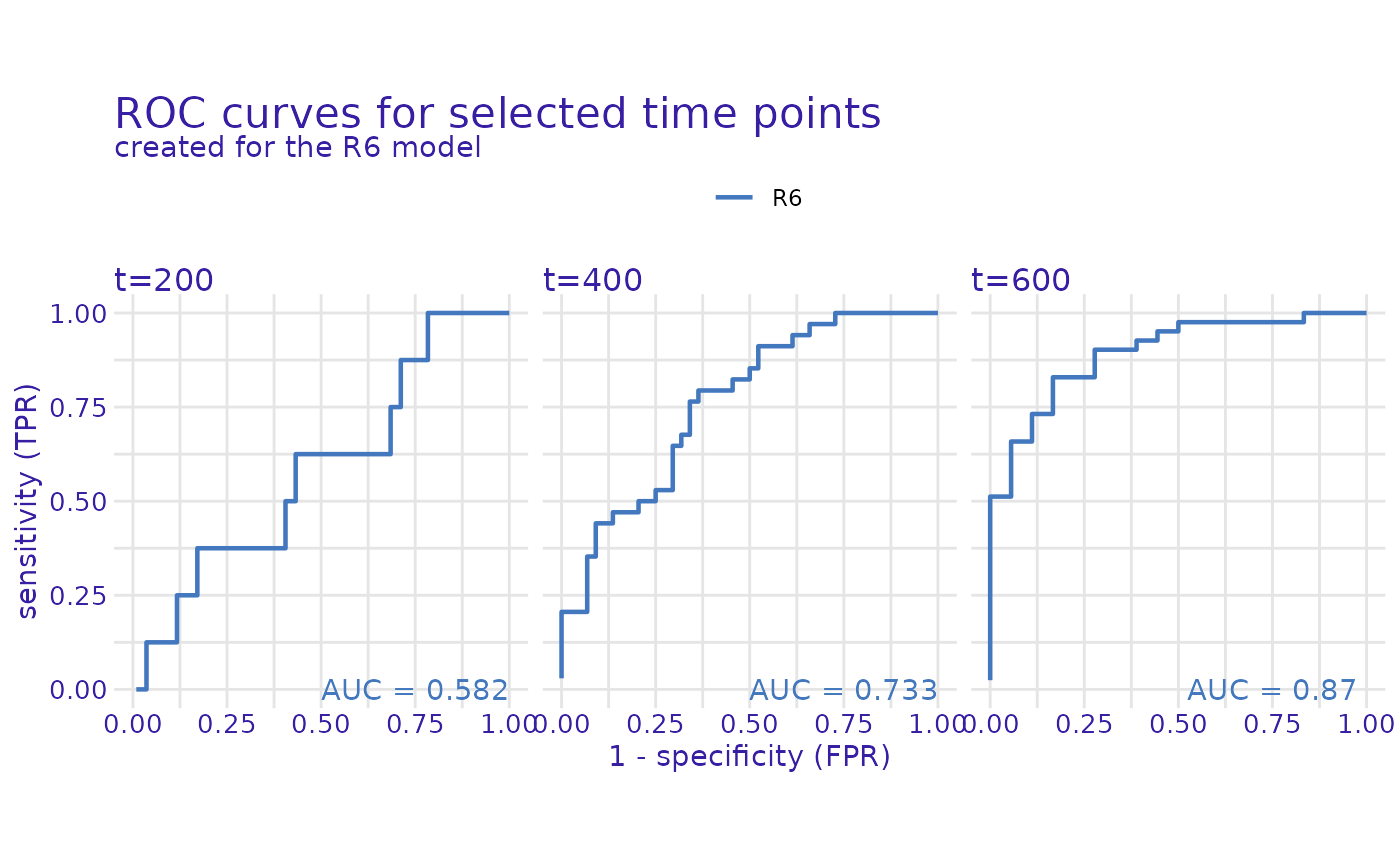
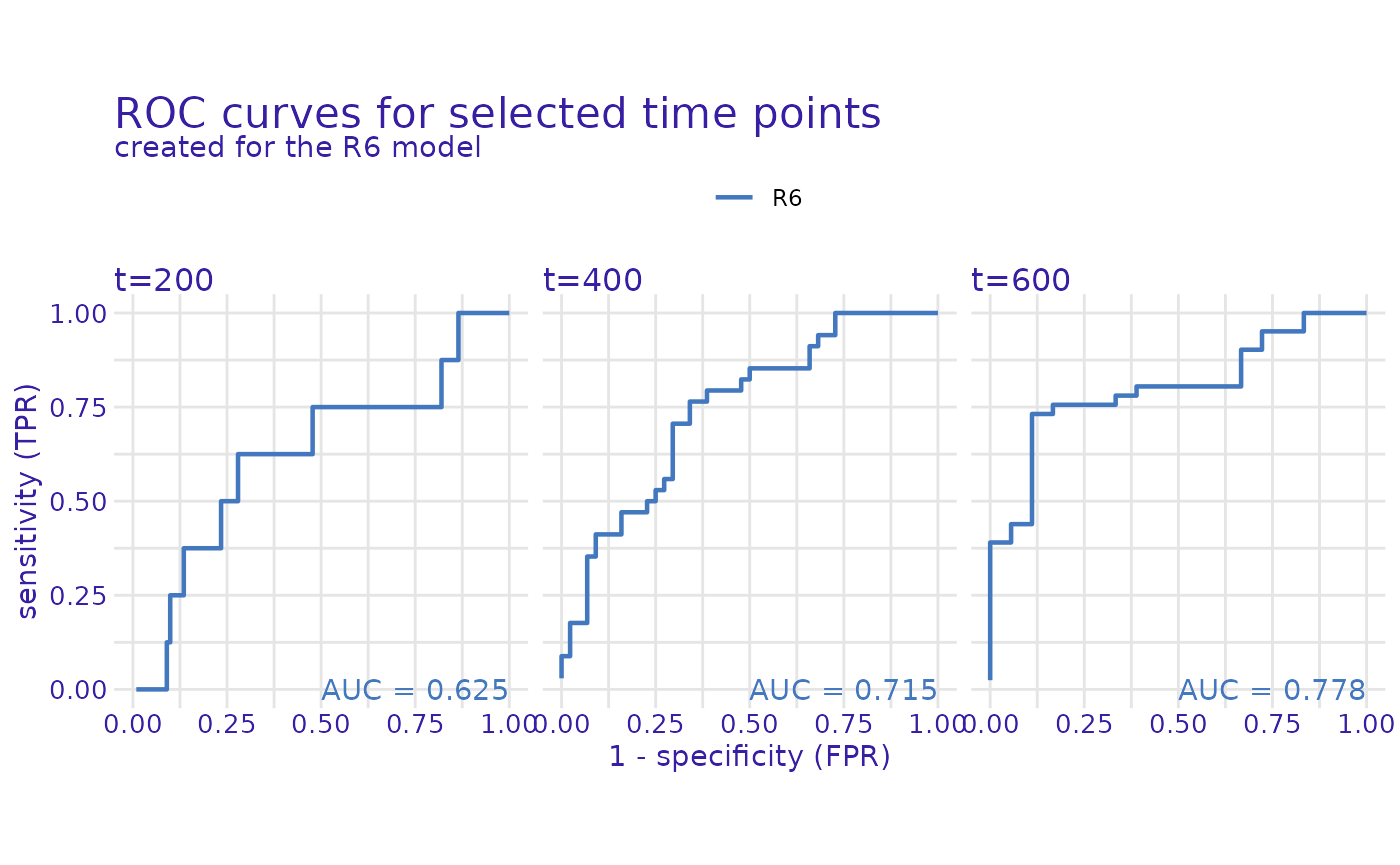
Deploying to gh-pages from @ orspanish/DeepSuRv@f4d12d9dfce1404e2e0daece48dc1e8613ecccd2 🚀

diff --git a/reference/negative_log_likelihood.html b/reference/negative_log_likelihood.html
@@ -50,16 +50,16 @@
     <h2 id="arguments">Arguments<a class="anchor" aria-label="anchor" href="#arguments"></a></h2>
 
 
-<dl><dt id="arg-e">E<a class="anchor" aria-label="anchor" href="#arg-e"></a></dt>
-<dd><p>A numeric vector of event indicators (1 = event occurred, 0 = censored).</p></dd>
-
-
-<dt id="arg-self">self<a class="anchor" aria-label="anchor" href="#arg-self"></a></dt>
+<dl><dt id="arg-model">model<a class="anchor" aria-label="anchor" href="#arg-model"></a></dt>
 <dd><p>A model-like object containing a method that returns the predicted log hazard.</p></dd>
 
 
-<dt id="arg-deterministic">deterministic<a class="anchor" aria-label="anchor" href="#arg-deterministic"></a></dt>
-<dd><p>Logical; if TRUE, calculates deterministic network outputs.</p></dd>
+<dt id="arg-x">X<a class="anchor" aria-label="anchor" href="#arg-x"></a></dt>
+<dd><p>A numeric matrix or data frame of input features, with one row per subject and one column per feature</p></dd>
+
+
+<dt id="arg-e">E<a class="anchor" aria-label="anchor" href="#arg-e"></a></dt>
+<dd><p>A numeric vector of event indicators (1 = event occurred, 0 = censored).</p></dd>
 
 </dl></div>
     <div class="section level2">
@@ -69,10 +69,28 @@
 
     <div class="section level2">
     <h2 id="ref-examples">Examples<a class="anchor" aria-label="anchor" href="#ref-examples"></a></h2>
-    <div class="sourceCode"><pre class="sourceCode r"><code><span class="r-in"><span><span class="va">fake_self</span> <span class="op">&lt;-</span> <span class="fu"><a href="https://rdrr.io/r/base/list.html" class="external-link">list</a></span><span class="op">(</span>risk <span class="op">=</span> <span class="kw">function</span><span class="op">(</span><span class="va">deterministic</span><span class="op">)</span> <span class="fu"><a href="https://rdrr.io/r/base/c.html" class="external-link">c</a></span><span class="op">(</span><span class="fl">0.1</span>, <span class="fl">0.2</span>, <span class="fl">0.3</span><span class="op">)</span><span class="op">)</span></span></span>
+    <div class="sourceCode"><pre class="sourceCode r"><code><span class="r-in"><span><span class="kw">if</span> <span class="op">(</span><span class="cn">FALSE</span><span class="op">)</span> <span class="op">{</span> <span class="co"># \dontrun{</span></span></span>
+<span class="r-in"><span><span class="co"># Create a fake model object with a risk() method</span></span></span>
+<span class="r-in"><span><span class="va">fake_self</span> <span class="op">&lt;-</span> <span class="fu"><a href="https://rdrr.io/r/base/list.html" class="external-link">list</a></span><span class="op">(</span></span></span>
+<span class="r-in"><span>  risk <span class="op">=</span> <span class="kw">function</span><span class="op">(</span><span class="va">x</span><span class="op">)</span> <span class="op">{</span></span></span>
+<span class="r-in"><span>    <span class="co"># Return a torch tensor of log-risk values,</span></span></span>
+<span class="r-in"><span>    <span class="co"># one per row of the input feature matrix</span></span></span>
+<span class="r-in"><span>    <span class="fu">torch</span><span class="fu">::</span><span class="fu"><a href="https://torch.mlverse.org/docs/reference/torch_tensor.html" class="external-link">torch_tensor</a></span><span class="op">(</span><span class="fu"><a href="https://rdrr.io/r/base/c.html" class="external-link">c</a></span><span class="op">(</span><span class="fl">0.1</span>, <span class="fl">0.2</span>, <span class="fl">0.3</span><span class="op">)</span><span class="op">)</span></span></span>
+<span class="r-in"><span>  <span class="op">}</span></span></span>
+<span class="r-in"><span><span class="op">)</span></span></span>
+<span class="r-in"><span></span></span>
+<span class="r-in"><span><span class="co"># Feature matrix: one row per subject</span></span></span>
+<span class="r-in"><span><span class="va">X</span> <span class="op">&lt;-</span> <span class="fu"><a href="https://rdrr.io/r/base/data.frame.html" class="external-link">data.frame</a></span><span class="op">(</span></span></span>
+<span class="r-in"><span>  age <span class="op">=</span> <span class="fu"><a href="https://rdrr.io/r/base/c.html" class="external-link">c</a></span><span class="op">(</span><span class="fl">60</span>, <span class="fl">55</span>, <span class="fl">70</span><span class="op">)</span>,</span></span>
+<span class="r-in"><span>  biomarker <span class="op">=</span> <span class="fu"><a href="https://rdrr.io/r/base/c.html" class="external-link">c</a></span><span class="op">(</span><span class="fl">1.2</span>, <span class="fl">0.7</span>, <span class="fl">2.1</span><span class="op">)</span></span></span>
+<span class="r-in"><span><span class="op">)</span></span></span>
+<span class="r-in"><span></span></span>
+<span class="r-in"><span><span class="co"># Event indicator (1 = event, 0 = censored)</span></span></span>
 <span class="r-in"><span><span class="va">E</span> <span class="op">&lt;-</span> <span class="fu"><a href="https://rdrr.io/r/base/c.html" class="external-link">c</a></span><span class="op">(</span><span class="fl">1</span>, <span class="fl">0</span>, <span class="fl">1</span><span class="op">)</span></span></span>
-<span class="r-in"><span><span class="fu">negative_log_likelihood</span><span class="op">(</span><span class="va">fake_self</span>, <span class="va">E</span><span class="op">)</span></span></span>
-<span class="r-err co"><span class="r-pr">#&gt;</span> <span class="error">Error in model$risk(torch_tensor(as.matrix(X), dtype = torch_float()))$squeeze:</span> $ operator is invalid for atomic vectors</span>
+<span class="r-in"><span></span></span>
+<span class="r-in"><span><span class="co"># Compute negative partial log-likelihood</span></span></span>
+<span class="r-in"><span><span class="fu">negative_log_likelihood</span><span class="op">(</span><span class="va">fake_self</span>, <span class="va">X</span>, <span class="va">E</span><span class="op">)</span></span></span>
+<span class="r-in"><span><span class="op">}</span> <span class="co"># }</span></span></span>
 </code></pre></div>
     </div>
   </main><aside class="col-md-3"><nav id="toc" aria-label="Table of contents"><h2>On this page</h2>

diff --git a/articles/DeepSuRv_tutorial.html b/articles/DeepSuRv_tutorial.html
@@ -153,11 +153,11 @@ desired.</p>
 <div class="sourceCode" id="cb4"><pre class="downlit sourceCode r">
 <code class="sourceCode R"><span><span class="va">model_whas</span><span class="op">$</span><span class="fu">set_standardization</span><span class="op">(</span><span class="va">x_train</span><span class="op">)</span></span>
 <span><span class="va">model_whas</span><span class="op">$</span><span class="fu">train</span><span class="op">(</span><span class="va">x_train</span>, <span class="va">t_train</span>, <span class="va">e_train</span><span class="op">)</span></span>
-<span><span class="co">#&gt; Epoch: 10 Loss: 3334.747 </span></span>
-<span><span class="co">#&gt; Epoch: 20 Loss: 3320.217 </span></span>
-<span><span class="co">#&gt; Epoch: 30 Loss: 3303.784 </span></span>
-<span><span class="co">#&gt; Epoch: 40 Loss: 3296.047 </span></span>
-<span><span class="co">#&gt; Epoch: 50 Loss: 3277.537</span></span></code></pre></div>
+<span><span class="co">#&gt; Epoch: 10 Loss: 3345.604 </span></span>
+<span><span class="co">#&gt; Epoch: 20 Loss: 3342.146 </span></span>
+<span><span class="co">#&gt; Epoch: 30 Loss: 3321.036 </span></span>
+<span><span class="co">#&gt; Epoch: 40 Loss: 3306.22 </span></span>
+<span><span class="co">#&gt; Epoch: 50 Loss: 3308.43</span></span></code></pre></div>
 <p>During training, the network iteratively updates its weights to
 minimize the Cox loss. Each epoch processes all training samples once,
 and the optimizer adjusts the weights based on the gradient of the
@@ -174,7 +174,7 @@ set.</p>
 <div class="sourceCode" id="cb5"><pre class="downlit sourceCode r">
 <code class="sourceCode R"><span><span class="va">scores</span> <span class="op">&lt;-</span> <span class="va">model_whas</span><span class="op">$</span><span class="fu">predict_risk</span><span class="op">(</span><span class="va">x_test</span><span class="op">)</span></span>
 <span><span class="fu"><a href="https://rdrr.io/r/utils/head.html" class="external-link">head</a></span><span class="op">(</span><span class="va">scores</span><span class="op">)</span></span>
-<span><span class="co">#&gt; [1] 2.685801 2.878598 1.947562 2.693764 2.503736 4.181186</span></span></code></pre></div>
+<span><span class="co">#&gt; [1] 2.940258 3.224050 2.915402 3.274704 2.960247 4.239460</span></span></code></pre></div>
 </div>
 <div class="section level2">
 <h2 id="evaluation-the-model-performance">Evaluation the Model Performance<a class="anchor" aria-label="anchor" href="#evaluation-the-model-performance"></a>
@@ -199,16 +199,15 @@ order.</p>
 <code class="sourceCode R"><span><span class="va">whas_res</span> <span class="op">&lt;-</span> <span class="va">model_whas</span><span class="op">$</span><span class="fu">bootstrap_cindex</span><span class="op">(</span><span class="va">x_test</span>, <span class="va">t_test</span>, <span class="va">e_test</span><span class="op">)</span></span>
 <span><span class="va">whas_res</span></span>
 <span><span class="co">#&gt; $cindex</span></span>
-<span><span class="co">#&gt; concordant </span></span>
-<span><span class="co">#&gt;  0.8202332 </span></span>
+<span><span class="co">#&gt; [1] 0.1988945</span></span>
 <span><span class="co">#&gt; </span></span>
 <span><span class="co">#&gt; $lower</span></span>
 <span><span class="co">#&gt;      2.5% </span></span>
-<span><span class="co">#&gt; 0.7843786 </span></span>
+<span><span class="co">#&gt; 0.1625551 </span></span>
 <span><span class="co">#&gt; </span></span>
 <span><span class="co">#&gt; $upper</span></span>
-<span><span class="co">#&gt;     97.5% </span></span>
-<span><span class="co">#&gt; 0.8526612</span></span></code></pre></div>
+<span><span class="co">#&gt;    97.5% </span></span>
+<span><span class="co">#&gt; 0.237385</span></span></code></pre></div>
 </div>
   </main><aside class="col-md-3"><nav id="toc" aria-label="Table of contents"><h2>On this page</h2>
     </nav></aside>

diff --git a/articles/deepsurv_survex.html b/articles/deepsurv_survex.html
@@ -160,11 +160,11 @@ DEEPSURV CLASS TUTORIAL ARTICLE</strong>.</p>
 <span>  t_train <span class="op">=</span> <span class="va">train_data</span><span class="op">$</span><span class="va">time</span>,</span>
 <span>  e_train <span class="op">=</span> <span class="va">train_data</span><span class="op">$</span><span class="va">event</span></span>
 <span><span class="op">)</span></span>
-<span><span class="co">#&gt; Epoch: 10 Loss: 192.6921 </span></span>
-<span><span class="co">#&gt; Epoch: 20 Loss: 189.8118 </span></span>
-<span><span class="co">#&gt; Epoch: 30 Loss: 186.4892 </span></span>
-<span><span class="co">#&gt; Epoch: 40 Loss: 183.5863 </span></span>
-<span><span class="co">#&gt; Epoch: 50 Loss: 181.4086</span></span></code></pre></div>
+<span><span class="co">#&gt; Epoch: 10 Loss: 191.5768 </span></span>
+<span><span class="co">#&gt; Epoch: 20 Loss: 189.1971 </span></span>
+<span><span class="co">#&gt; Epoch: 30 Loss: 186.8946 </span></span>
+<span><span class="co">#&gt; Epoch: 40 Loss: 184.3454 </span></span>
+<span><span class="co">#&gt; Epoch: 50 Loss: 181.5054</span></span></code></pre></div>
 </div>
 <div class="section level3">
 <h3 id="make-predictions">Make Predictions<a class="anchor" aria-label="anchor" href="#make-predictions"></a>
@@ -176,7 +176,7 @@ sooner.</p>
 <div class="sourceCode" id="cb5"><pre class="downlit sourceCode r">
 <code class="sourceCode R"><span><span class="va">risk_scores</span> <span class="op">&lt;-</span> <span class="va">model</span><span class="op">$</span><span class="fu">predict_risk</span><span class="op">(</span><span class="va">X</span><span class="op">)</span></span>
 <span><span class="fu"><a href="https://rdrr.io/r/utils/head.html" class="external-link">head</a></span><span class="op">(</span><span class="va">risk_scores</span><span class="op">)</span></span>
-<span><span class="co">#&gt; [1]  0.3127978  1.4249804 -0.8709887  2.0788488  1.5339806  1.6069432</span></span></code></pre></div>
+<span><span class="co">#&gt; [1] -0.9070435  0.3295634 -2.2499833  0.4999236  0.1406885 -0.0506255</span></span></code></pre></div>
 </div>
 </div>
 <div class="section level2">

diff --git a/reference/negative_log_likelihood.md b/reference/negative_log_likelihood.md
@@ -10,19 +10,20 @@ negative_log_likelihood(model, X, E)
 
 ## Arguments
 
-- E:
-
-  A numeric vector of event indicators (1 = event occurred, 0 =
-  censored).
-
-- self:
+- model:
 
   A model-like object containing a method that returns the predicted log
   hazard.
 
-- deterministic:
+- X:
 
-  Logical; if TRUE, calculates deterministic network outputs.
+  A numeric matrix or data frame of input features, with one row per
+  subject and one column per feature
+
+- E:
+
+  A numeric vector of event indicators (1 = event occurred, 0 =
+  censored).
 
 ## Value
 
@@ -31,8 +32,26 @@ A single numeric value representing the negative partial log-likelihood.
 ## Examples
 
 ``` r
-fake_self <- list(risk = function(deterministic) c(0.1, 0.2, 0.3))
+if (FALSE) { # \dontrun{
+# Create a fake model object with a risk() method
+fake_self <- list(
+  risk = function(x) {
+    # Return a torch tensor of log-risk values,
+    # one per row of the input feature matrix
+    torch::torch_tensor(c(0.1, 0.2, 0.3))
+  }
+)
+
+# Feature matrix: one row per subject
+X <- data.frame(
+  age = c(60, 55, 70),
+  biomarker = c(1.2, 0.7, 2.1)
+)
+
+# Event indicator (1 = event, 0 = censored)
 E <- c(1, 0, 1)
-negative_log_likelihood(fake_self, E)
-#> Error in model$risk(torch_tensor(as.matrix(X), dtype = torch_float()))$squeeze: $ operator is invalid for atomic vectors
+
+# Compute negative partial log-likelihood
+negative_log_likelihood(fake_self, X, E)
+} # }
 ```

diff --git a/articles/DeepSuRv_tutorial.md b/articles/DeepSuRv_tutorial.md
@@ -92,11 +92,11 @@ argument, `verbose`, which prints the training loss values if desired.
 ``` r
 model_whas$set_standardization(x_train)
 model_whas$train(x_train, t_train, e_train)
-#> Epoch: 10 Loss: 3334.747 
-#> Epoch: 20 Loss: 3320.217 
-#> Epoch: 30 Loss: 3303.784 
-#> Epoch: 40 Loss: 3296.047 
-#> Epoch: 50 Loss: 3277.537
+#> Epoch: 10 Loss: 3345.604 
+#> Epoch: 20 Loss: 3342.146 
+#> Epoch: 30 Loss: 3321.036 
+#> Epoch: 40 Loss: 3306.22 
+#> Epoch: 50 Loss: 3308.43
 ```
 
 During training, the network iteratively updates its weights to minimize
@@ -113,7 +113,7 @@ using the mean and standard deviation computed from the training set.
 ``` r
 scores <- model_whas$predict_risk(x_test)
 head(scores)
-#> [1] 2.685801 2.878598 1.947562 2.693764 2.503736 4.181186
+#> [1] 2.940258 3.224050 2.915402 3.274704 2.960247 4.239460
 ```
 
 ## Evaluation the Model Performance
@@ -138,14 +138,13 @@ correctly ordered in comparison to the observations true order.
 whas_res <- model_whas$bootstrap_cindex(x_test, t_test, e_test)
 whas_res
 #> $cindex
-#> concordant 
-#>  0.8202332 
+#> [1] 0.1988945
 #> 
 #> $lower
 #>      2.5% 
-#> 0.7843786 
+#> 0.1625551 
 #> 
 #> $upper
-#>     97.5% 
-#> 0.8526612
+#>    97.5% 
+#> 0.237385
 ```

diff --git a/articles/deepsurv_survex.md b/articles/deepsurv_survex.md
@@ -90,11 +90,11 @@ model$train(
   t_train = train_data$time,
   e_train = train_data$event
 )
-#> Epoch: 10 Loss: 192.6921 
-#> Epoch: 20 Loss: 189.8118 
-#> Epoch: 30 Loss: 186.4892 
-#> Epoch: 40 Loss: 183.5863 
-#> Epoch: 50 Loss: 181.4086
+#> Epoch: 10 Loss: 191.5768 
+#> Epoch: 20 Loss: 189.1971 
+#> Epoch: 30 Loss: 186.8946 
+#> Epoch: 40 Loss: 184.3454 
+#> Epoch: 50 Loss: 181.5054
 ```
 
 ### Make Predictions
@@ -106,7 +106,7 @@ a higher risk of the event of interest occurring sooner.
 ``` r
 risk_scores <- model$predict_risk(X)
 head(risk_scores)
-#> [1]  0.3127978  1.4249804 -0.8709887  2.0788488  1.5339806  1.6069432
+#> [1] -0.9070435  0.3295634 -2.2499833  0.4999236  0.1406885 -0.0506255
 ```
 
 ## Creating an Explainer
